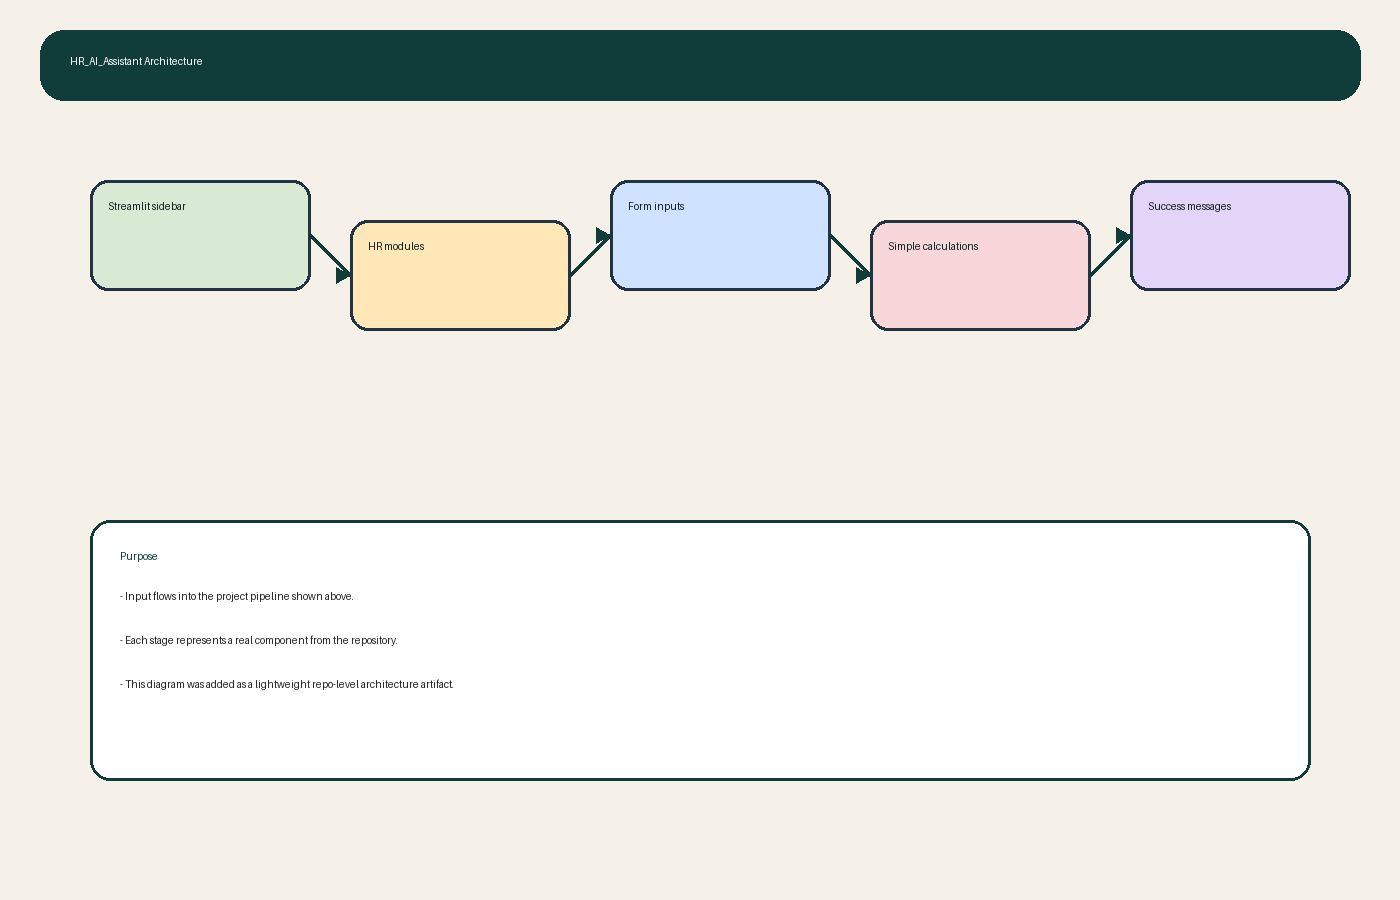
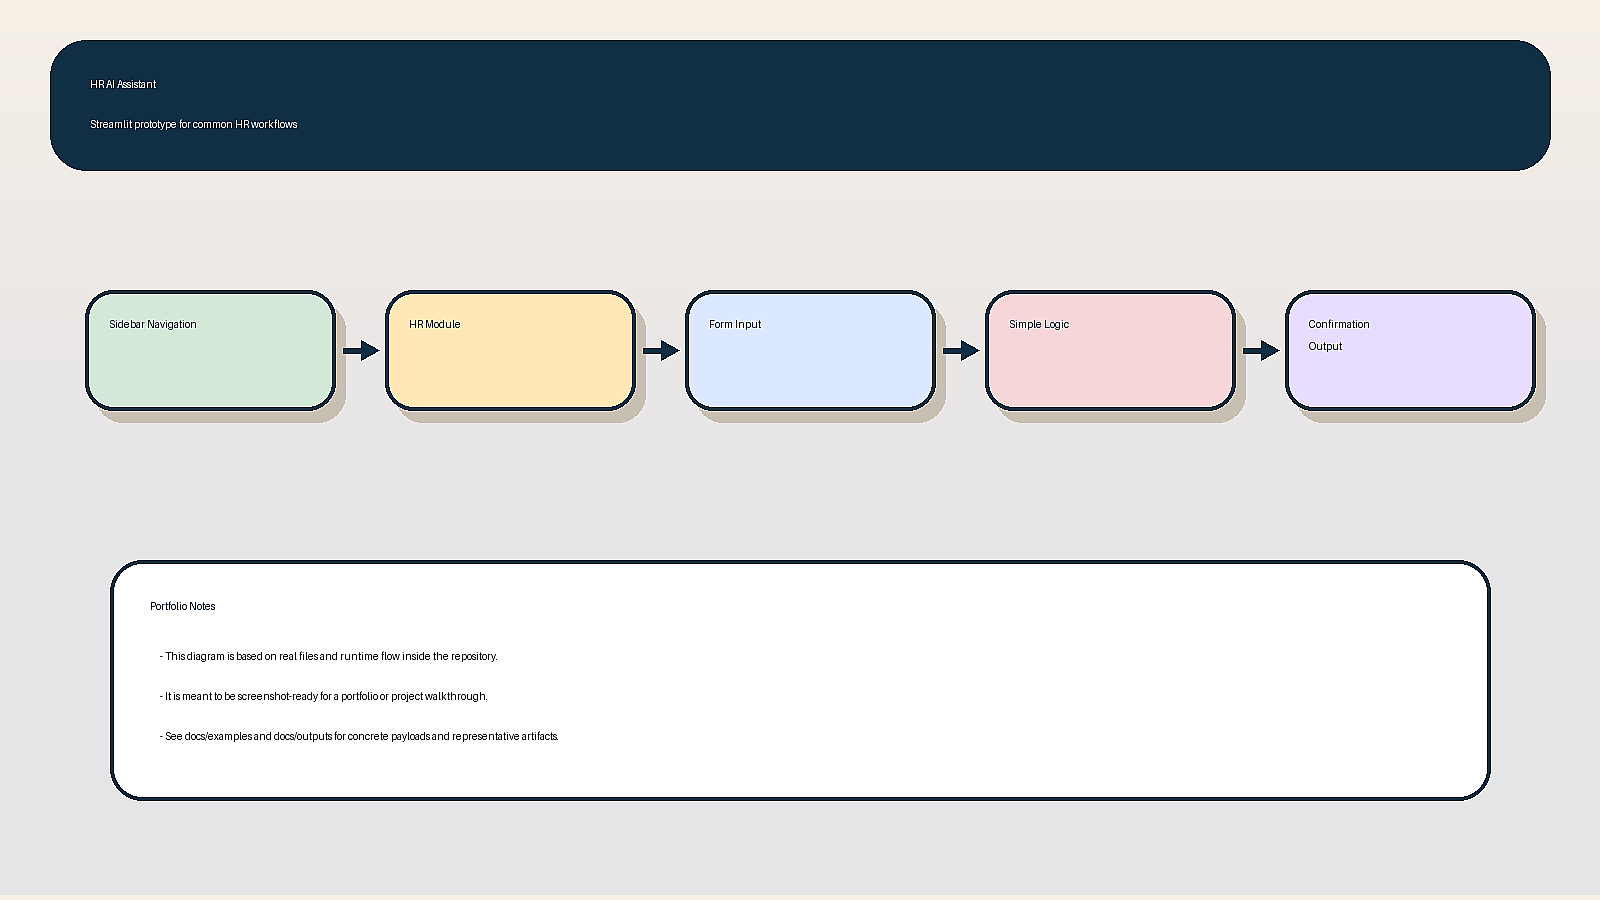
Polish architecture docs and add rich examples

Changed region(s): [[0.0307, 0.0311, 0.9829, 0.4978], [0.0614, 0.56, 0.9521, 0.9022]]

diff --git a/docs/sample_io.md b/docs/sample_io.md
@@ -1,18 +1,11 @@
 # Sample Inputs and Outputs
 
-## Recruitment module sample input
-- Upload a resume PDF or DOCX
+## Example files
+- `examples/compensation_input.json`
+- `examples/payroll_input.json`
+- `outputs/compensation_output.txt`
+- `outputs/payroll_output.txt`
 
-## Compensation sample input
-- Base salary: `80000`
-- Bonus: `5000`
-
-## Compensation sample output
-```text
-Total Compensation: 85000
-```
-
-## Payroll sample output
-```text
-Payroll for Maya generated with salary 65000.
-```
+## What these show
+- concrete payload values for two HR modules
+- the corresponding user-visible output from the Streamlit flows

diff --git a/README.md b/README.md
@@ -71,3 +71,5 @@ flowchart LR
 - [Architecture diagram](docs/architecture.png)
 - [Evaluation logs and outputs](docs/evaluation.md)
 - [Sample inputs and outputs](docs/sample_io.md)
+- [Rich example assets](docs/examples/)
+- [Representative outputs](docs/outputs/)
